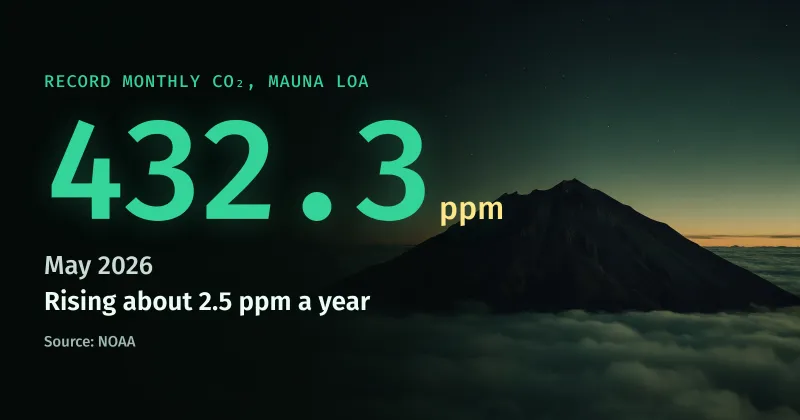
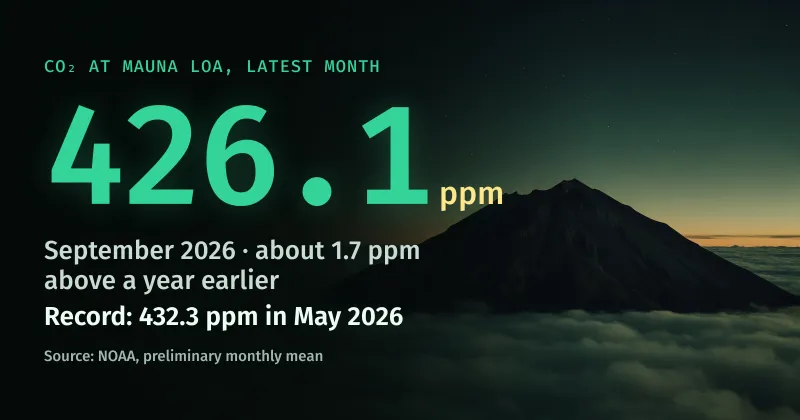
Monthly CO2 ppm auto-update, and a photo for the GCB 2026 post
CO2 ppm (Mauna Loa, NOAA):
- tools/ppm/update.py downloads NOAA's monthly data and writes tools/ppm/ppm.json:
  latest month, change on a year earlier, where the month sits in the seasonal
  cycle, and the record month. Exit 3 when there is no new month. Flags a new
  record so the Scripps comparison can be updated by hand. Moves the post's
  'updated' date.
- The blog build fills {{ppm:key}} placeholders from ppm.json; the CO2 ppm post
  uses them for its summary, takeaway, Q&A, opening paragraph, stat and alt text.
  Seeded with the current figures (426.07 ppm, September 2026; record 432.3, May 2026).
- Hero now shows the latest month and the record; the share image line follows it.

GCB 2026 key-findings post:
- Photo (glowing coal embers) and a 'gcb' hero layout that reads the current
  edition from tools/yearly/gcb.json, so it shows 2026 figures after the update.
- render.js skips heroes for posts that are not published yet.

Docs: monthly update in CLAUDE.md, {{ppm:key}} in CONTENT_GUIDE.md.

Claude-Session: https://claude.ai/code/session_01GtFu3NXdGXFiv2yN6D1S81

diff --git a/static/blog/posts/co2-ppm-atmosphere.html b/static/blog/posts/co2-ppm-atmosphere.html
@@ -29,7 +29,7 @@
     <link rel="stylesheet" href="/css/post-2026.css?v=2026-10e">
     <script type="application/ld+json">{"@context": "https://schema.org", "@type": "BlogPosting", "mainEntityOfPage": {"@type": "WebPage", "@id": "https://www.carbonemissionscounter.com/blog/posts/co2-ppm-atmosphere"}, "headline": "CO₂ in the atmosphere: today’s ppm level and why it keeps rising", "description": "Current CO₂ ppm from NOAA and Scripps, the Keeling curve, record growth rates, where emitted CO₂ goes and why levels rise even if emissions stop growing.", "image": "https://www.carbonemissionscounter.com/og/blog-co2-ppm-atmosphere.jpg", "datePublished": "2026-10-23", "dateModified": "2026-10-23", "wordCount": 1699, "author": {"@type": "Organization", "name": "Carbon Emissions Counter editorial team", "url": "https://www.carbonemissionscounter.com/about"}, "publisher": {"@type": "Organization", "name": "Carbon Emissions Counter", "url": "https://www.carbonemissionscounter.com/"}, "articleSection": "Climate science", "citation": ["https://gml.noaa.gov/ccgg/trends/", "https://gml.noaa.gov/ccgg/trends/global.html", "https://gml.noaa.gov/ccgg/trends/gr.html", "https://scripps.ucsd.edu/news/annual-carbon-dioxide-peak-reaches-432-parts-million", "https://keelingcurve.ucsd.edu/", "https://www.climate.gov/news-features/understanding-climate/climate-change-atmospheric-carbon-dioxide", "https://essd.copernicus.org/articles/18/3211/2026/", "https://globalcarbonbudget.org/fossil-fuel-co2-emissions-hit-record-high-in-2025/", "https://www.ipcc.ch/report/ar6/wg1/chapter/summary-for-policymakers/", "https://www.ipcc.ch/report/ar5/wg1/carbon-and-other-biogeochemical-cycles/", "https://www.ipcc.ch/report/ar5/syr/"]}</script>
     <script type="application/ld+json">{"@context": "https://schema.org", "@type": "BreadcrumbList", "itemListElement": [{"@type": "ListItem", "position": 1, "name": "Home", "item": "https://www.carbonemissionscounter.com/"}, {"@type": "ListItem", "position": 2, "name": "Blog", "item": "https://www.carbonemissionscounter.com/blog/"}, {"@type": "ListItem", "position": 3, "name": "CO₂ in the atmosphere: today’s ppm level and why it keeps rising", "item": "https://www.carbonemissionscounter.com/blog/posts/co2-ppm-atmosphere"}]}</script>
-    <script type="application/ld+json">{"@context": "https://schema.org", "@type": "FAQPage", "mainEntity": [{"@type": "Question", "name": "What is the current CO₂ level in ppm?", "acceptedAnswer": {"@type": "Answer", "text": "NOAA’s monthly mean at Mauna Loa, Hawaii, was 426.07 ppm in September 2026 (preliminary data), near the yearly low and about 1.7 ppm above September 2025. The yearly peak came in May 2026 at 432.3 ppm. The global average for 2025 was about 425.6 to 425.7 ppm."}}, {"@type": "Question", "name": "What was CO₂ ppm before the industrial revolution?", "acceptedAnswer": {"@type": "Answer", "text": "About 278 ppm around 1750, according to ice-core records used by the IPCC and the Global Carbon Budget. It is often rounded to 280 ppm. Today’s level is more than 50% higher and the highest in at least 2 million years."}}, {"@type": "Question", "name": "Why is Mauna Loa CO₂ higher than the global average?", "acceptedAnswer": {"@type": "Answer", "text": "Mauna Loa is in the Northern Hemisphere, where most fossil CO₂ is emitted, and it takes about a year for air to mix between the hemispheres. The global average also includes Southern Hemisphere sites, so it typically runs 1 to 2 ppm lower. In 2025 Mauna Loa averaged 427.35 ppm and NOAA’s global mean was 425.62 ppm."}}, {"@type": "Question", "name": "How fast is CO₂ increasing each year?", "acceptedAnswer": {"@type": "Answer", "text": "Over the past ten years (2016–2025) the average increase has been about 2.5 ppm a year, both at Mauna Loa and globally. The record was 2024, when the global average rose by about 3.8 ppm. In 2025 the rise slowed to about 2.1 ppm globally as El Niño faded."}}, {"@type": "Question", "name": "Would CO₂ levels fall if emissions stopped?", "acceptedAnswer": {"@type": "Answer", "text": "Yes, but slowly. The ocean and land would keep absorbing CO₂, so concentrations would start to decline. The IPCC estimates that 15 to 40% of emitted CO₂ stays in the atmosphere for longer than 1,000 years, so levels would stay well above pre-industrial for many centuries."}}]}</script>
+    <script type="application/ld+json">{"@context": "https://schema.org", "@type": "FAQPage", "mainEntity": [{"@type": "Question", "name": "What is the current CO₂ level in ppm?", "acceptedAnswer": {"@type": "Answer", "text": "NOAA’s monthly mean at Mauna Loa, Hawaii, was 426.07 ppm in September 2026 (preliminary data), near the yearly low and about 1.7 ppm above September 2025. The record monthly mean is 432.3 ppm, from May 2026. The global average for 2025 was about 425.6 to 425.7 ppm."}}, {"@type": "Question", "name": "What was CO₂ ppm before the industrial revolution?", "acceptedAnswer": {"@type": "Answer", "text": "About 278 ppm around 1750, according to ice-core records used by the IPCC and the Global Carbon Budget. It is often rounded to 280 ppm. Today’s level is more than 50% higher and the highest in at least 2 million years."}}, {"@type": "Question", "name": "Why is Mauna Loa CO₂ higher than the global average?", "acceptedAnswer": {"@type": "Answer", "text": "Mauna Loa is in the Northern Hemisphere, where most fossil CO₂ is emitted, and it takes about a year for air to mix between the hemispheres. The global average also includes Southern Hemisphere sites, so it typically runs 1 to 2 ppm lower. In 2025 Mauna Loa averaged 427.35 ppm and NOAA’s global mean was 425.62 ppm."}}, {"@type": "Question", "name": "How fast is CO₂ increasing each year?", "acceptedAnswer": {"@type": "Answer", "text": "Over the past ten years (2016–2025) the average increase has been about 2.5 ppm a year, both at Mauna Loa and globally. The record was 2024, when the global average rose by about 3.8 ppm. In 2025 the rise slowed to about 2.1 ppm globally as El Niño faded."}}, {"@type": "Question", "name": "Would CO₂ levels fall if emissions stopped?", "acceptedAnswer": {"@type": "Answer", "text": "Yes, but slowly. The ocean and land would keep absorbing CO₂, so concentrations would start to decline. The IPCC estimates that 15 to 40% of emitted CO₂ stays in the atmosphere for longer than 1,000 years, so levels would stay well above pre-industrial for many centuries."}}]}</script>
 </head>
 <body>
     <div class="container">
@@ -44,7 +44,7 @@
                     <p class="bp-dek">Carbon dioxide in the air passed 432 parts per million at Mauna Loa in May 2026, more than 50% above pre-industrial levels. Here is what the numbers mean, where they come from and why they keep climbing.</p>
                     <p class="bp-meta">By the <a href="/about#editorial">Carbon Emissions Counter editorial team</a> &middot; <time datetime="2026-10-23">Updated 23 October 2026</time> &middot; 8 min read</p>
                     <p class="bp-share"><button type="button" class="t-share" data-share aria-label="Share this page"><svg viewBox="0 0 24 24" width="16" height="16" aria-hidden="true" fill="none" stroke="currentColor" stroke-width="2" stroke-linecap="round" stroke-linejoin="round"><circle cx="18" cy="5" r="3"/><circle cx="6" cy="12" r="3"/><circle cx="18" cy="19" r="3"/><path d="m8.6 13.5 6.8 4M15.4 6.5l-6.8 4"/></svg><span>Share</span></button></p>
-                    <figure class="bp-hero-image"><img src="/blog/images/co2-ppm-atmosphere.webp" srcset="/blog/images/co2-ppm-atmosphere-800.webp 800w, /blog/images/co2-ppm-atmosphere.webp 1600w" sizes="(max-width: 860px) 100vw, 820px" alt="A mountain summit above a sea of clouds at twilight, beside the record monthly CO₂ level at Mauna Loa: 432.3 ppm in May 2026, rising about 2.5 ppm a year" width="1200" height="630" fetchpriority="high"></figure>
+                    <figure class="bp-hero-image"><img src="/blog/images/co2-ppm-atmosphere.webp" srcset="/blog/images/co2-ppm-atmosphere-800.webp 800w, /blog/images/co2-ppm-atmosphere.webp 1600w" sizes="(max-width: 860px) 100vw, 820px" alt="A mountain summit above a sea of clouds at twilight, beside the latest monthly CO₂ level at Mauna Loa, 426.1 ppm in September 2026, and the record of 432.3 ppm in May 2026" width="1200" height="630" fetchpriority="high"></figure>
                 </header>
 
                 <aside class="bp-takeaways" aria-labelledby="takeaways-title">
@@ -57,7 +57,7 @@
                 <div class="bp-body">
 <section>
     <h2 id="what-is-the-co-level-today">What is the CO₂ level today?</h2>
-    <p><strong>The monthly average at Mauna Loa Observatory in Hawaii was 426.07 ppm in September 2026</strong>, according to NOAA’s preliminary data. That is near the yearly low and about 1.7 ppm above September 2025. The peak came in May 2026 at a record <strong>432.3 ppm</strong> (NOAA), or 432.0 ppm in the separate Scripps record at the same site. Both are about 1.8 ppm higher than May 2025.</p>
+    <p><strong>The monthly average at Mauna Loa Observatory in Hawaii was 426.07 ppm in September 2026</strong>, according to NOAA’s preliminary data. That is near the yearly low and about 1.7 ppm above September 2025. The record monthly mean came in May 2026 at <strong>432.3 ppm</strong> (NOAA), or 432.0 ppm in the separate Scripps record at the same site. Both are about 1.8 ppm higher than May 2025.</p>
     <p>For whole years, NOAA’s Mauna Loa average was <strong>427.35 ppm in 2025</strong>, and its global average over marine surface sites was <strong>425.62 ppm</strong>. The Global Carbon Budget 2025, which the rest of this site uses, put the 2025 global mean at about 425.7 ppm, up from 422.8 ppm in 2024 and <strong>52% above the pre-industrial level</strong>. The IPCC concluded that CO₂ is now higher than at any time in at least 2 million years.</p>
     <div class="stat-row">
         <div class="stat"><span class="stat-value">432.3 ppm</span><span class="stat-label">Record monthly mean, Mauna Loa, May 2026 (NOAA)</span></div>
@@ -178,7 +178,7 @@
                 <section class="bp-faq" aria-labelledby="faq-title"><h2 id="faq-title">Questions and answers</h2>
                     <details class="bp-faq-item">
                         <summary>What is the current CO₂ level in ppm?</summary>
-                        <p>NOAA’s monthly mean at Mauna Loa, Hawaii, was 426.07 ppm in September 2026 (preliminary data), near the yearly low and about 1.7 ppm above September 2025. The yearly peak came in May 2026 at 432.3 ppm. The global average for 2025 was about 425.6 to 425.7 ppm.</p>
+                        <p>NOAA’s monthly mean at Mauna Loa, Hawaii, was 426.07 ppm in September 2026 (preliminary data), near the yearly low and about 1.7 ppm above September 2025. The record monthly mean is 432.3 ppm, from May 2026. The global average for 2025 was about 425.6 to 425.7 ppm.</p>
                     </details>
                     <details class="bp-faq-item">
                         <summary>What was CO₂ ppm before the industrial revolution?</summary>

diff --git a/tools/blog/content/co2-ppm-atmosphere.html b/tools/blog/content/co2-ppm-atmosphere.html
@@ -3,21 +3,21 @@
   "title": "CO₂ ppm today: current level and why it keeps rising",
   "h1": "CO₂ in the atmosphere: today’s ppm level and why it keeps rising",
   "description": "Current CO₂ ppm from NOAA and Scripps, the Keeling curve, record growth rates, where emitted CO₂ goes and why levels rise even if emissions stop growing.",
-  "dek": "Carbon dioxide in the air passed 432 parts per million at Mauna Loa in May 2026, more than 50% above pre-industrial levels. Here is what the numbers mean, where they come from and why they keep climbing.",
+  "dek": "Carbon dioxide in the air passed {{ppm:record_ppm_int}} parts per million at Mauna Loa in {{ppm:record_month}}, more than 50% above pre-industrial levels. Here is what the numbers mean, where they come from and why they keep climbing.",
   "category": "Climate science",
   "image": "/blog/images/co2-ppm-atmosphere.webp",
-  "image_alt": "A mountain summit above a sea of clouds at twilight, beside the record monthly CO₂ level at Mauna Loa: 432.3 ppm in May 2026, rising about 2.5 ppm a year",
+  "image_alt": "A mountain summit above a sea of clouds at twilight, beside the latest monthly CO₂ level at Mauna Loa, {{ppm:latest_ppm_1dp}} ppm in {{ppm:latest_month}}, and the record of {{ppm:record_ppm}} ppm in {{ppm:record_month}}",
   "published": "2026-10-23",
   "updated": "2026-10-23",
   "takeaways": [
     "The global average CO₂ concentration was about 425.6 ppm in 2025 (NOAA), 52% above the pre-industrial level of about 278 ppm.",
-    "Mauna Loa in Hawaii, the longest record, averaged 427.35 ppm in 2025 and reached a record monthly mean of 432.3 ppm in May 2026 (NOAA).",
+    "Mauna Loa in Hawaii, the longest record, averaged 427.35 ppm in 2025 and reached a record monthly mean of {{ppm:record_ppm}} ppm in {{ppm:record_month}} (NOAA).",
     "CO₂ is rising about 2.5 ppm a year, roughly three times faster than in the 1960s; 2024 saw the largest jump on record, about 3.8 ppm globally.",
     "Ocean and land absorb roughly half of the CO₂ we emit; the other half stays in the air, so concentrations keep rising until emissions fall close to net zero.",
     "There is no single “safe” ppm number for 1.5 °C or 2 °C: warming depends on cumulative CO₂ emissions and on other gases, which is why targets use carbon budgets."
   ],
   "faq": [
-    ["What is the current CO₂ level in ppm?", "NOAA’s monthly mean at Mauna Loa, Hawaii, was 426.07 ppm in September 2026 (preliminary data), near the yearly low and about 1.7 ppm above September 2025. The yearly peak came in May 2026 at 432.3 ppm. The global average for 2025 was about 425.6 to 425.7 ppm."],
+    ["What is the current CO₂ level in ppm?", "NOAA’s monthly mean at Mauna Loa, Hawaii, was {{ppm:latest_ppm}} ppm in {{ppm:latest_month}} (preliminary data), {{ppm:season}} and {{ppm:change}} {{ppm:latest_month_prev_year}}. The record monthly mean is {{ppm:record_ppm}} ppm, from {{ppm:record_month}}. The global average for 2025 was about 425.6 to 425.7 ppm."],
     ["What was CO₂ ppm before the industrial revolution?", "About 278 ppm around 1750, according to ice-core records used by the IPCC and the Global Carbon Budget. It is often rounded to 280 ppm. Today’s level is more than 50% higher and the highest in at least 2 million years."],
     ["Why is Mauna Loa CO₂ higher than the global average?", "Mauna Loa is in the Northern Hemisphere, where most fossil CO₂ is emitted, and it takes about a year for air to mix between the hemispheres. The global average also includes Southern Hemisphere sites, so it typically runs 1 to 2 ppm lower. In 2025 Mauna Loa averaged 427.35 ppm and NOAA’s global mean was 425.62 ppm."],
     ["How fast is CO₂ increasing each year?", "Over the past ten years (2016–2025) the average increase has been about 2.5 ppm a year, both at Mauna Loa and globally. The record was 2024, when the global average rose by about 3.8 ppm. In 2025 the rise slowed to about 2.1 ppm globally as El Niño faded."],
@@ -41,10 +41,10 @@
 -->
 <section>
     <h2>What is the CO₂ level today?</h2>
-    <p><strong>The monthly average at Mauna Loa Observatory in Hawaii was 426.07 ppm in September 2026</strong>, according to NOAA’s preliminary data. That is near the yearly low and about 1.7 ppm above September 2025. The peak came in May 2026 at a record <strong>432.3 ppm</strong> (NOAA), or 432.0 ppm in the separate Scripps record at the same site. Both are about 1.8 ppm higher than May 2025.</p>
+    <p><strong>The monthly average at Mauna Loa Observatory in Hawaii was {{ppm:latest_ppm}} ppm in {{ppm:latest_month}}</strong>, according to NOAA’s preliminary data. That is {{ppm:season}} and {{ppm:change}} {{ppm:latest_month_prev_year}}. The record monthly mean came in {{ppm:record_month}} at <strong>{{ppm:record_ppm}} ppm</strong> (NOAA), or 432.0 ppm in the separate Scripps record at the same site. Both are about 1.8 ppm higher than May 2025.</p>
     <p>For whole years, NOAA’s Mauna Loa average was <strong>427.35 ppm in 2025</strong>, and its global average over marine surface sites was <strong>425.62 ppm</strong>. The Global Carbon Budget 2025, which the rest of this site uses, put the 2025 global mean at about 425.7 ppm, up from 422.8 ppm in 2024 and <strong>52% above the pre-industrial level</strong>. The IPCC concluded that CO₂ is now higher than at any time in at least 2 million years.</p>
     <div class="stat-row">
-        <div class="stat"><span class="stat-value">432.3 ppm</span><span class="stat-label">Record monthly mean, Mauna Loa, May 2026 (NOAA)</span></div>
+        <div class="stat"><span class="stat-value">{{ppm:record_ppm}} ppm</span><span class="stat-label">Record monthly mean, Mauna Loa, {{ppm:record_month}} (NOAA)</span></div>
         <div class="stat"><span class="stat-value">425.7 ppm</span><span class="stat-label">Global average 2025 (Global Carbon Budget)</span></div>
         <div class="stat"><span class="stat-value">≈2.5 ppm</span><span class="stat-label">Average yearly rise, 2016–2025</span></div>
     </div>

diff --git a/tools/blog/heroes/render.js b/tools/blog/heroes/render.js
@@ -46,6 +46,25 @@ function stats(t) {
     return `${t.kicker ? `<p class="kicker">${esc(t.kicker)}</p>` : ''}<ol class="stats${t.gold ? ' gold' : ''}">${items}</ol><p class="src">${esc(t.source)}</p>`;
 }
 
+function ppm() {
+    const t = JSON.parse(fs.readFileSync(path.join(ROOT, 'tools', 'ppm', 'ppm.json'), 'utf8')).text;
+    return stat({ kicker: 'CO₂ at Mauna Loa, latest month', green: true, value: t.latest_ppm_1dp, unit: 'ppm',
+        lines: [`${t.latest_month} · ${t.change} a year earlier`, `Record: ${t.record_ppm} ppm in ${t.record_month}`],
+        source: 'Source: NOAA, preliminary monthly mean' });
+}
+
+// Key findings of the current Global Carbon Budget edition (tools/yearly/gcb.json)
+function gcb() {
+    const g = JSON.parse(fs.readFileSync(path.join(ROOT, 'tools', 'yearly', 'gcb.json'), 'utf8')).current;
+    const c = g.fossil_change_pct;
+    const change = (c >= 0 ? '+' : '−') + Math.abs(c).toFixed(1) + '%';
+    return stats({ kicker: `Global Carbon Budget ${g.edition}`, gold: true, items: [
+        [`${g.fossil_gt.toFixed(1)} Gt`, `fossil CO₂ in ${g.year} (${change})`],
+        [`${g.total_gt.toFixed(1)} Gt`, 'total CO₂ including land use'],
+        [`${g.budget_15_gt} Gt`, `left for 1.5 °C from 1 January ${g.budget_start_year}`],
+    ], source: `Source: Global Carbon Budget ${g.edition}` });
+}
+
 function budget() {
     const b = budgetFigures();
     return stat({ kicker: '1.5 °C carbon budget left', value: String(b.gt), unit: 'Gt CO₂',
@@ -59,7 +78,7 @@ function page(slug, job) {
     const shade = right
         ? 'linear-gradient(270deg,rgba(5,11,9,.94) 0%,rgba(5,11,9,.84) 38%,rgba(5,11,9,.35) 60%,transparent 74%)'
         : 'linear-gradient(90deg,rgba(5,11,9,.94) 0%,rgba(5,11,9,.84) 38%,rgba(5,11,9,.35) 60%,transparent 74%)';
-    const body = job.chart ? chart(job.chart) : job.stat ? stat(job.stat) : job.stats ? stats(job.stats) : job.budget ? budget() : '';
+    const body = job.chart ? chart(job.chart) : job.stat ? stat(job.stat) : job.stats ? stats(job.stats) : job.budget ? budget() : job.ppm ? ppm() : job.gcb ? gcb() : '';
     return `<!doctype html><html><head><meta charset="utf-8"><style>
 @font-face{font-family:'Fira Sans';font-weight:500;src:url('${FONTS}/fira-sans-latin-500-normal.woff2')}
 @font-face{font-family:'Fira Sans';font-weight:600;src:url('${FONTS}/fira-sans-latin-600-normal.woff2')}
@@ -102,6 +121,8 @@ body{width:${W}px;height:${H}px;overflow:hidden;background:#050b09;font-family:'
     const tmp = path.join(os.tmpdir(), 'hero-render.html');
     for (const [slug, job] of Object.entries(jobs)) {
         if (slug.startsWith('_')) continue;
+        // A draft post (e.g. tools/blog/drafts/) gets its hero once it is published
+        if (!fs.existsSync(path.join(ROOT, 'tools', 'blog', 'content', slug + '.html'))) { console.log('skip', slug, '(no post yet)'); continue; }
         fs.writeFileSync(tmp, page(slug, job));
         await p.goto('file://' + tmp);
         await p.evaluate(() => document.fonts.ready);

diff --git a/tools/blog/drafts/global-carbon-budget-2026.html b/tools/blog/drafts/global-carbon-budget-2026.html
@@ -8,7 +8,7 @@ On release day:
 3. python3 tools/yearly/gcb_update.py --draft
    fills the {{...}} numbers, removes this comment and writes tools/blog/content/global-carbon-budget-2026.html.
    It refuses while any {{...}} value is missing or any [[WRITE: ...]] note is left.
-4. python3 tools/blog/build.py
+4. python3 tools/blog/build.py, then node tools/blog/heroes/render.js (its photo is ready in tools/blog/heroes/photos/)
 Runbook: docs/GCB2026.md
 -->
 <!--meta
@@ -18,8 +18,8 @@ Runbook: docs/GCB2026.md
   "description": "Global Carbon Budget {{edition}} explained in plain English: {{fossil}} Gt fossil CO₂, country trends, carbon sinks, {{ppm}} ppm and the {{budget}} Gt left for 1.5 °C.",
   "dek": "The Global Carbon Project’s annual report is the reference count of the world’s CO₂. Here is what the {{edition}} edition found, what changed since last year and what the numbers mean.",
   "category": "Climate science",
-  "image": "/blog/images/carbon-budget.svg",
-  "image_alt": "Illustration of the shrinking carbon budget for 1.5 °C",
+  "image": "/blog/images/global-carbon-budget-2026.webp",
+  "image_alt": "Glowing coal embers in the dark, beside three Global Carbon Budget {{edition}} figures: {{fossil}} Gt of fossil CO₂ in {{year}}, {{total}} Gt of total CO₂ and {{budget}} Gt left for 1.5 °C",
   "published": "{{release_date}}",
   "updated": "{{release_date}}",
   "takeaways": [

diff --git a/tools/ppm/update.py b/tools/ppm/update.py
@@ -1,0 +1,122 @@
+#!/usr/bin/env python3
+"""Monthly update of the Mauna Loa CO2 figures on the site.
+
+    python3 tools/ppm/update.py                  # download NOAA's monthly data and update tools/ppm/ppm.json
+    python3 tools/ppm/update.py --csv file.csv   # use a local copy of co2_mm_mlo.csv instead
+
+The CO2 ppm post uses {{ppm:key}} placeholders, filled from ppm.json by tools/blog/build.py; the post's
+hero image and share image read the same file. After an update, rebuild:
+
+    python3 tools/blog/build.py && python3 tools/ads/apply.py && node tools/blog/heroes/render.js
+    python3 tools/og/jobs.py > /tmp/og.json && node tools/og/render.js /tmp/og.json
+
+Exit code 0: updated. Exit code 3: no new month yet (nothing to do).
+"""
+import argparse
+import csv
+import io
+import json
+import os
+import re
+import sys
+import urllib.request
+from datetime import date
+
+ROOT = os.path.abspath(os.path.join(os.path.dirname(__file__), '..', '..'))
+OUT = os.path.join(ROOT, 'tools', 'ppm', 'ppm.json')
+URL = 'https://gml.noaa.gov/webdata/ccgg/trends/co2/co2_mm_mlo.csv'
+MONTHS = ['January', 'February', 'March', 'April', 'May', 'June', 'July', 'August', 'September',
+          'October', 'November', 'December']
+
+
+def season(month):
+    """Where a month sits in Mauna Loa's yearly cycle (peak in May, low in September-October)."""
+    if month == 5:
+        return 'at the yearly peak'
+    if month in (9, 10):
+        return 'near the yearly low'
+    if 6 <= month <= 8:
+        return 'on the seasonal fall towards the autumn low'
+    return 'on the seasonal rise towards the May peak'
+
+
+def change(delta):
+    word = 'above' if delta >= 0 else 'below'
+    return f'about {abs(delta):.1f} ppm {word}'
+
+
+def text(latest, prev_year, record):
+    """Every phrase the site shows, from (year, month, ppm) tuples."""
+    (ly, lm, lp), (_, _, pp), (ry, rm, rp) = latest, prev_year, record
+    return {
+        'latest_ppm': f'{lp:.2f}',
+        'latest_ppm_1dp': f'{lp:.1f}',
+        'latest_month': f'{MONTHS[lm - 1]} {ly}',
+        'latest_month_prev_year': f'{MONTHS[lm - 1]} {ly - 1}',
+        'season': season(lm),
+        'change': change(lp - pp),
+        'record_ppm': f'{rp:.1f}',
+        'record_ppm_int': f'{int(rp)}',
+        'record_month': f'{MONTHS[rm - 1]} {ry}',
+    }
+
+
+def read_rows(raw):
+    rows = []
+    lines = [l for l in raw.splitlines() if l.strip() and not l.startswith('#')]
+    for r in csv.DictReader(io.StringIO('\n'.join(lines))):
+        try:
+            y, m, v = int(r['year']), int(r['month']), float(r['average'])
+        except (KeyError, ValueError):
+            continue
+        if v > 0:  # NOAA marks missing months with -99.99
+            rows.append((y, m, v))
+    if len(rows) < 24:
+        sys.exit('NOAA data looks wrong: fewer than 24 monthly values')
+    return rows
+
+
+def main():
+    ap = argparse.ArgumentParser(description=__doc__, formatter_class=argparse.RawDescriptionHelpFormatter)
+    ap.add_argument('--csv', help='local copy of co2_mm_mlo.csv')
+    args = ap.parse_args()
+    if args.csv:
+        raw = open(args.csv, encoding='utf-8').read()
+    else:
+        with urllib.request.urlopen(URL, timeout=60) as r:
+            raw = r.read().decode('utf-8')
+    rows = read_rows(raw)
+    latest = rows[-1]
+    prev = next((r for r in rows if r[0] == latest[0] - 1 and r[1] == latest[1]), None)
+    if not prev:
+        sys.exit('No value for the same month a year earlier')
+    record = max(rows, key=lambda r: r[2])
+
+    old = json.load(open(OUT, encoding='utf-8')) if os.path.exists(OUT) else {}
+    new = {
+        '_help': 'Mauna Loa monthly CO2 (NOAA). Written by tools/ppm/update.py; used by {{ppm:key}} in blog posts and by the CO2 ppm hero image.',
+        'source': URL,
+        'latest': list(latest), 'prev_year': list(prev), 'record': list(record),
+        'text': text(latest, prev, record),
+    }
+    if old.get('latest') == new['latest'] and old.get('record') == new['record']:
+        print(f"No new month: latest is still {new['text']['latest_month']} ({new['text']['latest_ppm']} ppm).")
+        sys.exit(3)
+    with open(OUT, 'w', encoding='utf-8') as fh:
+        json.dump(new, fh, ensure_ascii=False, indent=2)
+        fh.write('\n')
+    # The post shows new figures, so its "Updated" date moves too.
+    post = os.path.join(ROOT, 'tools', 'blog', 'content', 'co2-ppm-atmosphere.html')
+    s = open(post, encoding='utf-8').read()
+    s = re.sub(r'"updated": "\d{4}-\d{2}-\d{2}"', f'"updated": "{date.today().isoformat()}"', s, count=1)
+    open(post, 'w', encoding='utf-8').write(s)
+    t = new['text']
+    print(f"Updated: {t['latest_ppm']} ppm in {t['latest_month']}, {t['change']} {t['latest_month_prev_year']}.")
+    print(f"Record: {t['record_ppm']} ppm in {t['record_month']}.")
+    if old.get('record') and old['record'] != new['record']:
+        print('NEW RECORD: also update by hand the Scripps figure and the "Both are about ... higher than May ..." '
+              'sentence in tools/blog/content/co2-ppm-atmosphere.html, or remove that clause if no Scripps figure is out yet.')
+
+
+if __name__ == '__main__':
+    main()

diff --git a/tools/blog/build.py b/tools/blog/build.py
@@ -49,12 +49,20 @@ def nice_date(iso):
     return f'{d.day} {d.strftime("%B %Y")}'
 
 
+def fill_ppm(raw):
+    """Fill {{ppm:key}} placeholders with the latest Mauna Loa figures (tools/ppm/ppm.json, see tools/ppm/update.py)."""
+    if '{{ppm:' not in raw:
+        return raw
+    text = json.load(open(os.path.join(ROOT, 'tools', 'ppm', 'ppm.json'), encoding='utf-8'))['text']
+    return re.sub(r'\{\{ppm:(\w+)\}\}', lambda m: text[m.group(1)], raw)
+
+
 def load():
     posts = []
     for f in sorted(os.listdir(CONTENT)):
         if not f.endswith('.html'):
             continue
-        raw = open(os.path.join(CONTENT, f), encoding='utf-8').read()
+        raw = fill_ppm(open(os.path.join(CONTENT, f), encoding='utf-8').read())
         m = re.match(r'\s*<!--meta\s*(\{.*?\})\s*-->\s*(.*)$', raw, re.S)
         if not m:
             raise SystemExit(f'{f}: missing <!--meta {{...}} --> header')

diff --git a/tools/og/jobs.py b/tools/og/jobs.py
@@ -68,6 +68,12 @@ def main():
                 job['flip'] = hero.get('side') == 'right'
                 if hero.get('og_sub'):
                     job['sub'] = hero['og_sub']
+                if hero.get('ppm'):
+                    t = json.load(open(os.path.join(ROOT, 'tools', 'ppm', 'ppm.json'), encoding='utf-8'))['text']
+                    job['sub'] = f"{t['latest_ppm']} ppm at Mauna Loa in {t['latest_month']} (NOAA)"
+                if hero.get('gcb'):
+                    job['sub'] = (f"Fossil CO₂ {gcb['fossil_gt']:.1f} Gt in {gcb['year']}; "
+                                  f"{gcb['budget_15_gt']} Gt left for 1.5 °C")
                 if hero.get('budget'):
                     job['big'] = f"{gcb['budget_15_gt']} Gt"
                     job['sub'] = f"CO₂ left for 1.5 °C from 1 January {gcb['budget_start_year']}"

diff --git a/CLAUDE.md b/CLAUDE.md
@@ -34,6 +34,10 @@ python3 tools/blog/images.py       # SVG illustrations (fallback for posts witho
 npm run build:motion               # slim Motion build → static/js/vendor/motion.js
 ```
 
+## Monthly CO₂ ppm update
+- `python3 tools/ppm/update.py` downloads NOAA's Mauna Loa monthly data (gml.noaa.gov) into `tools/ppm/ppm.json`. The CO₂ ppm post uses `{{ppm:key}}` placeholders filled by the blog build, and its hero and share image read the same file. Then rebuild the blog, heroes and share images.
+- A scheduled task runs this on the 9th of each month and opens a PR.
+
 ## Rules
 - Files under `/css/`, `/js/` and `/shared/` are cached for a long time. When one changes, bump its `?v=` everywhere it's referenced. The generators use `ASSET_V`/`V` plus a letter.
 - No inline `onclick`/`onload` handlers: the strict CSP planned for AdSense blocks them.

diff --git a/tools/blog/CONTENT_GUIDE.md b/tools/blog/CONTENT_GUIDE.md
@@ -70,6 +70,12 @@ Keep the slug (file name) of existing posts unchanged; their URLs are already in
 <blockquote>...</blockquote>
 ```
 
+### Live figures
+
+`{{ppm:key}}` in a post (meta or body) is replaced at build time with the latest Mauna Loa CO₂ figures from
+`tools/ppm/ppm.json` (keys: `latest_ppm`, `latest_month`, `season`, `change`, `latest_month_prev_year`, `record_ppm`,
+`record_month`, `record_ppm_int`). Use them instead of typing monthly figures by hand.
+
 ### Photo hero images
 
 A post can use a photo hero instead of an SVG illustration: an AI photo (Magnific) with the post's real figures
